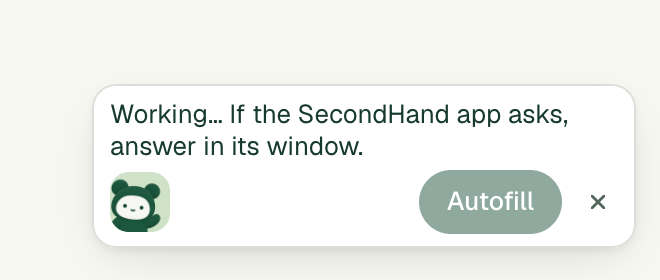
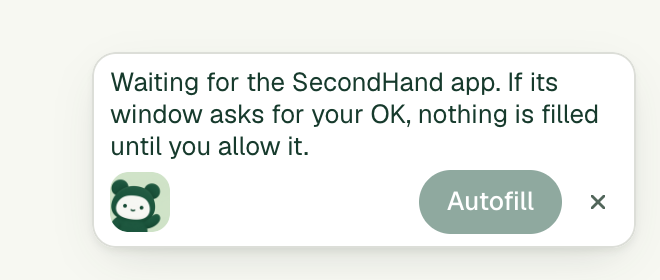
fix: say SecondHand waits for the app's OK, not that it is filling
While the SecondHand app's window asked for permission, the side panel
said "Filling…" and the card "Working…", which read as if filling had
started before the person said yes, and "If the SecondHand app asks"
did not say what would happen. Both now say "Waiting for the SecondHand
app. If its window asks for your OK, nothing is filled until you allow
it."; the side panel adds that the window may open behind Chrome. The
five other languages keep saying what the window's English buttons mean.

diff --git a/extension/strings.js b/extension/strings.js
@@ -37,7 +37,7 @@
     'widget.showTitle': 'Show SecondHand’s card',
     'widget.showWaitingTitle': 'Show SecondHand’s card: it needs you',
     'widget.needYouTitle': 'Go to the next question left, in the form',
-    'widget.working': 'Working… If the SecondHand app asks, answer in its window.',
+    'widget.working': 'Waiting for the SecondHand app. If its window asks for your OK, nothing is filled until you allow it.',
     'widget.aiUnavailable': 'Chrome’s AI isn’t available, so nothing was guessed.',
     'widget.needYou': { one: '{count} question left', other: '{count} questions left' },
     'widget.findInForm': 'Find it in the form.',
@@ -85,7 +85,7 @@
     'panel.openIowa': 'Open Iowa’s SNAP application and your checklist appears here. On another food-assistance form, click the SecondHand icon beside Chrome’s address bar.',
     'panel.openIowaLink': 'Open Iowa’s SNAP application',
     'panel.stopping': 'Stopping autofill…',
-    'panel.filling': 'Filling… If the SecondHand app asks, answer in its window.',
+    'panel.filling': 'Waiting for the SecondHand app. If its window asks for your OK, nothing is filled until you allow it. The window may open behind Chrome.',
     'panel.fieldOffScreen': 'That field isn’t on screen right now. Find it in Iowa’s form.',
     'panel.chromeCouldntAskSite': 'Chrome couldn’t ask for access to this site.',
     'panel.chromeDeclinedSite': 'Chrome didn’t allow SecondHand on this site. Nothing changed.',
@@ -414,7 +414,7 @@
     'widget.showTitle': 'Mostrar la tarjeta de SecondHand',
     'widget.showWaitingTitle': 'Mostrar la tarjeta de SecondHand: necesita su respuesta',
     'widget.needYouTitle': 'Ir a la siguiente pregunta que falta, en el formulario',
-    'widget.working': 'Trabajando… Si la aplicación SecondHand le pregunta, responda en su ventana (en inglés): “Allow once” es solo esta vez; “Always allow on this computer”, siempre.',
+    'widget.working': 'Esperando a la aplicación SecondHand. Si su ventana le pide permiso, no se llena nada hasta que usted lo permita. Está en inglés: “Allow once” es solo esta vez; “Always allow on this computer”, siempre.',
     'widget.aiUnavailable': 'La IA de Chrome no está disponible, así que no se adivinó nada.',
     'widget.needYou': { one: 'Falta {count}', other: 'Faltan {count}' },
     'widget.findInForm': 'Búsquelo en el formulario.',
@@ -459,7 +459,7 @@
     'panel.openIowa': 'Abra la solicitud de SNAP de Iowa y su lista aparecerá aquí. En otro formulario de ayuda alimentaria, haga clic en el ícono de SecondHand junto a la barra de direcciones de Chrome.',
     'panel.openIowaLink': 'Abrir la solicitud de SNAP de Iowa',
     'panel.stopping': 'Deteniendo el autocompletado…',
-    'panel.filling': 'Llenando… Si la aplicación SecondHand le pregunta, responda en su ventana (en inglés): “Allow once” es solo esta vez; “Always allow on this computer”, siempre.',
+    'panel.filling': 'Esperando a la aplicación SecondHand. Si su ventana le pide permiso, no se llena nada hasta que usted lo permita. La ventana puede abrirse detrás de Chrome y está en inglés: “Allow once” es solo esta vez; “Always allow on this computer”, siempre.',
     'panel.fieldOffScreen': 'Ese campo no está en la pantalla ahora. Búsquelo en el formulario de Iowa.',
     'panel.chromeCouldntAskSite': 'Chrome no pudo pedir acceso a este sitio.',
     'panel.chromeDeclinedSite': 'Chrome no permitió SecondHand en este sitio. No cambió nada.',
@@ -785,7 +785,7 @@
     'widget.showTitle': 'Hiện thẻ của SecondHand',
     'widget.showWaitingTitle': 'Hiện thẻ của SecondHand: nó cần bạn',
     'widget.needYouTitle': 'Đến câu hỏi còn lại tiếp theo trong biểu mẫu',
-    'widget.working': 'Đang làm… Nếu ứng dụng SecondHand hỏi, hãy trả lời trong cửa sổ của nó (bằng tiếng Anh): “Allow once” là chỉ lần này; “Always allow on this computer” là luôn luôn.',
+    'widget.working': 'Đang chờ ứng dụng SecondHand. Nếu cửa sổ của nó xin phép bạn, sẽ không có gì được điền cho đến khi bạn cho phép. Cửa sổ bằng tiếng Anh: “Allow once” là chỉ lần này; “Always allow on this computer” là luôn luôn.',
     'widget.aiUnavailable': 'AI của Chrome không khả dụng nên không có gì được đoán.',
     'widget.needYou': { one: '{count} mục cần bạn', other: '{count} mục cần bạn' },
     'widget.findInForm': 'Hãy tìm nó trong biểu mẫu.',
@@ -830,7 +830,7 @@
     'panel.openIowa': 'Hãy mở đơn SNAP của Iowa, danh sách kiểm tra sẽ hiện ở đây. Với biểu mẫu hỗ trợ thực phẩm khác, hãy bấm biểu tượng SecondHand cạnh thanh địa chỉ của Chrome.',
     'panel.openIowaLink': 'Mở đơn SNAP của Iowa',
     'panel.stopping': 'Đang dừng tự điền…',
-    'panel.filling': 'Đang điền… Nếu ứng dụng SecondHand hỏi, hãy trả lời trong cửa sổ của nó (bằng tiếng Anh): “Allow once” là chỉ lần này; “Always allow on this computer” là luôn luôn.',
+    'panel.filling': 'Đang chờ ứng dụng SecondHand. Nếu cửa sổ của nó xin phép bạn, sẽ không có gì được điền cho đến khi bạn cho phép. Cửa sổ có thể mở phía sau Chrome và bằng tiếng Anh: “Allow once” là chỉ lần này; “Always allow on this computer” là luôn luôn.',
     'panel.fieldOffScreen': 'Ô đó hiện không có trên màn hình. Hãy tìm nó trong biểu mẫu của Iowa.',
     'panel.chromeCouldntAskSite': 'Chrome không thể xin quyền truy cập trang web này.',
     'panel.chromeDeclinedSite': 'Chrome không cho phép SecondHand trên trang web này. Không có gì thay đổi.',
@@ -1157,7 +1157,7 @@
     'widget.showTitle': '显示 SecondHand 卡片',
     'widget.showWaitingTitle': '显示 SecondHand 卡片：需要您处理',
     'widget.needYouTitle': '前往表格中下一个剩下的问题',
-    'widget.working': '处理中… 如果 SecondHand 应用询问，请在它的窗口中回答（英文）：“Allow once”是仅此一次，“Always allow on this computer”是始终允许。',
+    'widget.working': '正在等待 SecondHand 应用。如果它的窗口请求您的同意，在您允许之前不会填写任何内容。窗口为英文：“Allow once”是仅此一次，“Always allow on this computer”是始终允许。',
     'widget.aiUnavailable': 'Chrome 的 AI 不可用，因此没有进行推测。',
     'widget.needYou': { one: '{count} 项需要您处理', other: '{count} 项需要您处理' },
     'widget.findInForm': '请在表格中找到它。',
@@ -1202,7 +1202,7 @@
     'panel.openIowa': '打开爱荷华州的 SNAP 申请，您的核对清单就会显示在这里。如果是其他食物援助表格，请点击 Chrome 地址栏旁的 SecondHand 图标。',
     'panel.openIowaLink': '打开爱荷华州的 SNAP 申请',
     'panel.stopping': '正在停止自动填写…',
-    'panel.filling': '填写中… 如果 SecondHand 应用询问，请在它的窗口中回答（英文）：“Allow once”是仅此一次，“Always allow on this computer”是始终允许。',
+    'panel.filling': '正在等待 SecondHand 应用。如果它的窗口请求您的同意，在您允许之前不会填写任何内容。窗口可能在 Chrome 后面打开，且为英文：“Allow once”是仅此一次，“Always allow on this computer”是始终允许。',
     'panel.fieldOffScreen': '该栏位现在不在屏幕上。请在爱荷华州的表格中找到它。',
     'panel.chromeCouldntAskSite': 'Chrome 无法请求访问此网站。',
     'panel.chromeDeclinedSite': 'Chrome 未允许 SecondHand 在此网站上运行。没有任何更改。',
@@ -1529,7 +1529,7 @@
     'widget.showTitle': 'Afficher la carte de SecondHand',
     'widget.showWaitingTitle': 'Afficher la carte de SecondHand : elle a besoin de vous',
     'widget.needYouTitle': 'Aller à la prochaine question qui reste, dans le formulaire',
-    'widget.working': 'En cours… Si l’application SecondHand vous le demande, répondez dans sa fenêtre (en anglais) : « Allow once » pour cette fois seulement, « Always allow on this computer » pour toujours.',
+    'widget.working': 'En attente de l’application SecondHand. Si sa fenêtre demande votre accord, rien n’est rempli avant que vous l’autorisiez. Elle est en anglais : « Allow once » pour cette fois, « Always allow on this computer » pour toujours.',
     'widget.aiUnavailable': 'L’IA de Chrome n’est pas disponible : rien n’a été deviné.',
     'widget.needYou': { one: '{count} à faire', other: '{count} à faire' },
     'widget.findInForm': 'Trouvez-la dans le formulaire.',
@@ -1574,7 +1574,7 @@
     'panel.openIowa': 'Ouvrez la demande SNAP de l’Iowa et votre liste de contrôle apparaîtra ici. Pour un autre formulaire d’aide alimentaire, cliquez sur l’icône SecondHand à côté de la barre d’adresse de Chrome.',
     'panel.openIowaLink': 'Ouvrir la demande SNAP de l’Iowa',
     'panel.stopping': 'Arrêt du remplissage…',
-    'panel.filling': 'Remplissage… Si l’application SecondHand vous le demande, répondez dans sa fenêtre (en anglais) : « Allow once » pour cette fois seulement, « Always allow on this computer » pour toujours.',
+    'panel.filling': 'En attente de l’application SecondHand. Si sa fenêtre demande votre accord, rien n’est rempli avant que vous l’autorisiez. Elle peut s’ouvrir derrière Chrome et elle est en anglais : « Allow once » pour cette fois, « Always allow on this computer » pour toujours.',
     'panel.fieldOffScreen': 'Ce champ n’est pas à l’écran pour le moment. Trouvez-le dans le formulaire de l’Iowa.',
     'panel.chromeCouldntAskSite': 'Chrome n’a pas pu demander l’accès à ce site.',
     'panel.chromeDeclinedSite': 'Chrome n’a pas autorisé SecondHand sur ce site. Rien n’a changé.',
@@ -1901,7 +1901,7 @@
     'widget.showTitle': 'إظهار بطاقة SecondHand',
     'widget.showWaitingTitle': 'إظهار بطاقة SecondHand: تحتاج إليك',
     'widget.needYouTitle': 'انتقل إلى السؤال المتبقي التالي في النموذج',
-    'widget.working': 'جارٍ العمل… إذا سأل تطبيق SecondHand، فأجب في نافذته (بالإنجليزية): “Allow once” تعني هذه المرة فقط، و“Always allow on this computer” تعني دائمًا.',
+    'widget.working': 'بانتظار تطبيق SecondHand. إذا طلبت نافذته موافقتك، فلن يُعبّأ شيء حتى تسمح بذلك. النافذة بالإنجليزية: “Allow once” تعني هذه المرة فقط، و“Always allow on this computer” تعني دائمًا.',
     'widget.aiUnavailable': 'الذكاء الاصطناعي في Chrome غير متاح، لذلك لم يُخمَّن شيء.',
     'widget.needYou': { one: 'بحاجة إليك: {count}', other: 'بحاجة إليك: {count}' },
     'widget.findInForm': 'ابحث عنه في النموذج.',
@@ -1946,7 +1946,7 @@
     'panel.openIowa': 'افتح طلب SNAP الخاص بأيوا وستظهر قائمة التحقق هنا. لنموذج آخر للمساعدة الغذائية، انقر على أيقونة SecondHand بجانب شريط العناوين في Chrome.',
     'panel.openIowaLink': 'فتح طلب SNAP الخاص بأيوا',
     'panel.stopping': 'جارٍ إيقاف التعبئة التلقائية…',
-    'panel.filling': 'جارٍ التعبئة… إذا سأل تطبيق SecondHand، فأجب في نافذته (بالإنجليزية): “Allow once” تعني هذه المرة فقط، و“Always allow on this computer” تعني دائمًا.',
+    'panel.filling': 'بانتظار تطبيق SecondHand. إذا طلبت نافذته موافقتك، فلن يُعبّأ شيء حتى تسمح بذلك. قد تُفتح النافذة خلف Chrome، وهي بالإنجليزية: “Allow once” تعني هذه المرة فقط، و“Always allow on this computer” تعني دائمًا.',
     'panel.fieldOffScreen': 'هذا الحقل غير ظاهر على الشاشة الآن. ابحث عنه في نموذج أيوا.',
     'panel.chromeCouldntAskSite': 'لم يتمكن Chrome من طلب الوصول إلى هذا الموقع.',
     'panel.chromeDeclinedSite': 'لم يسمح Chrome لـ SecondHand بالعمل على هذا الموقع. لم يتغير شيء.',
